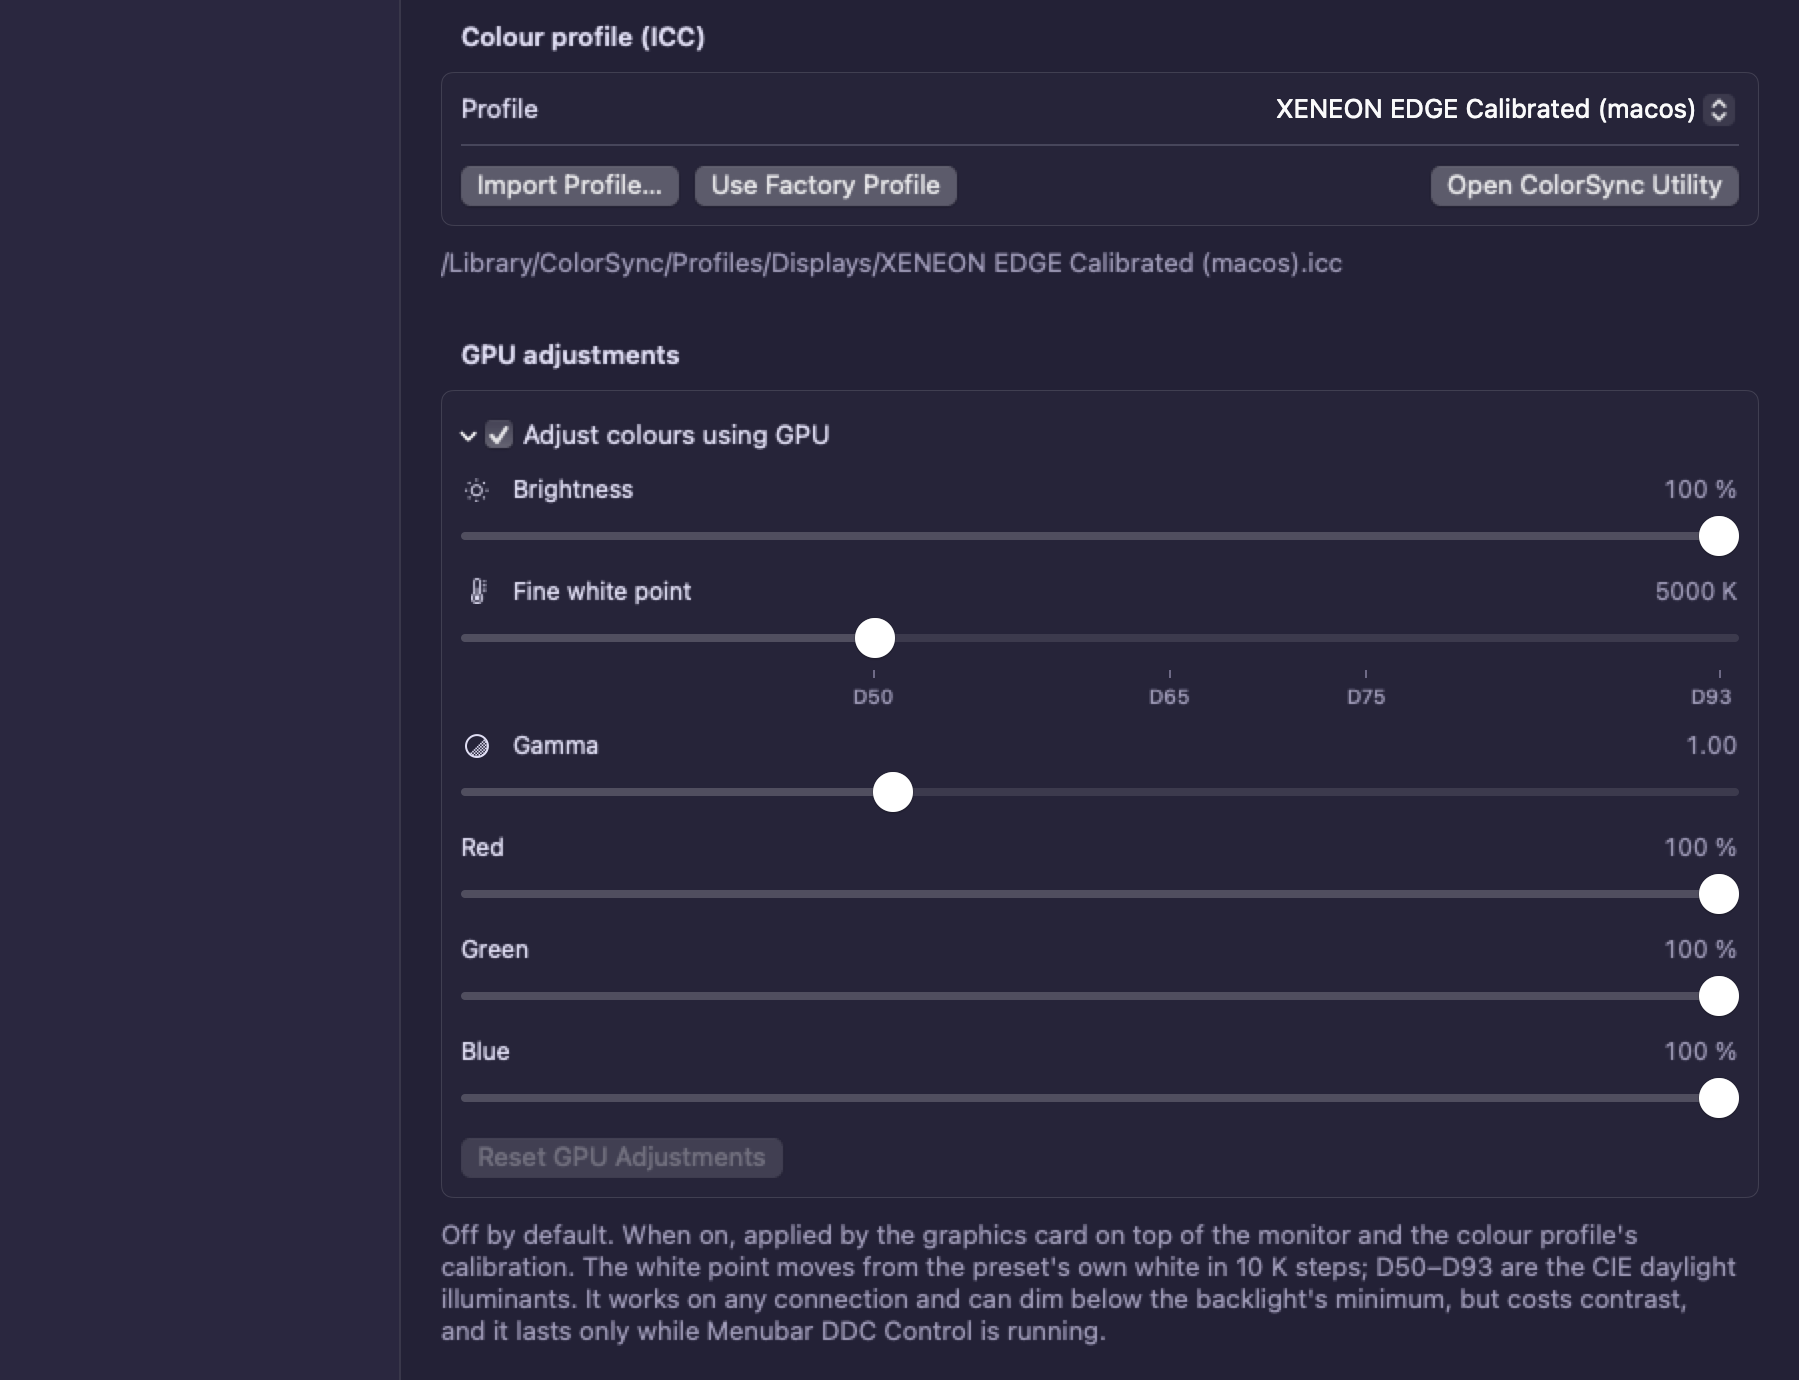
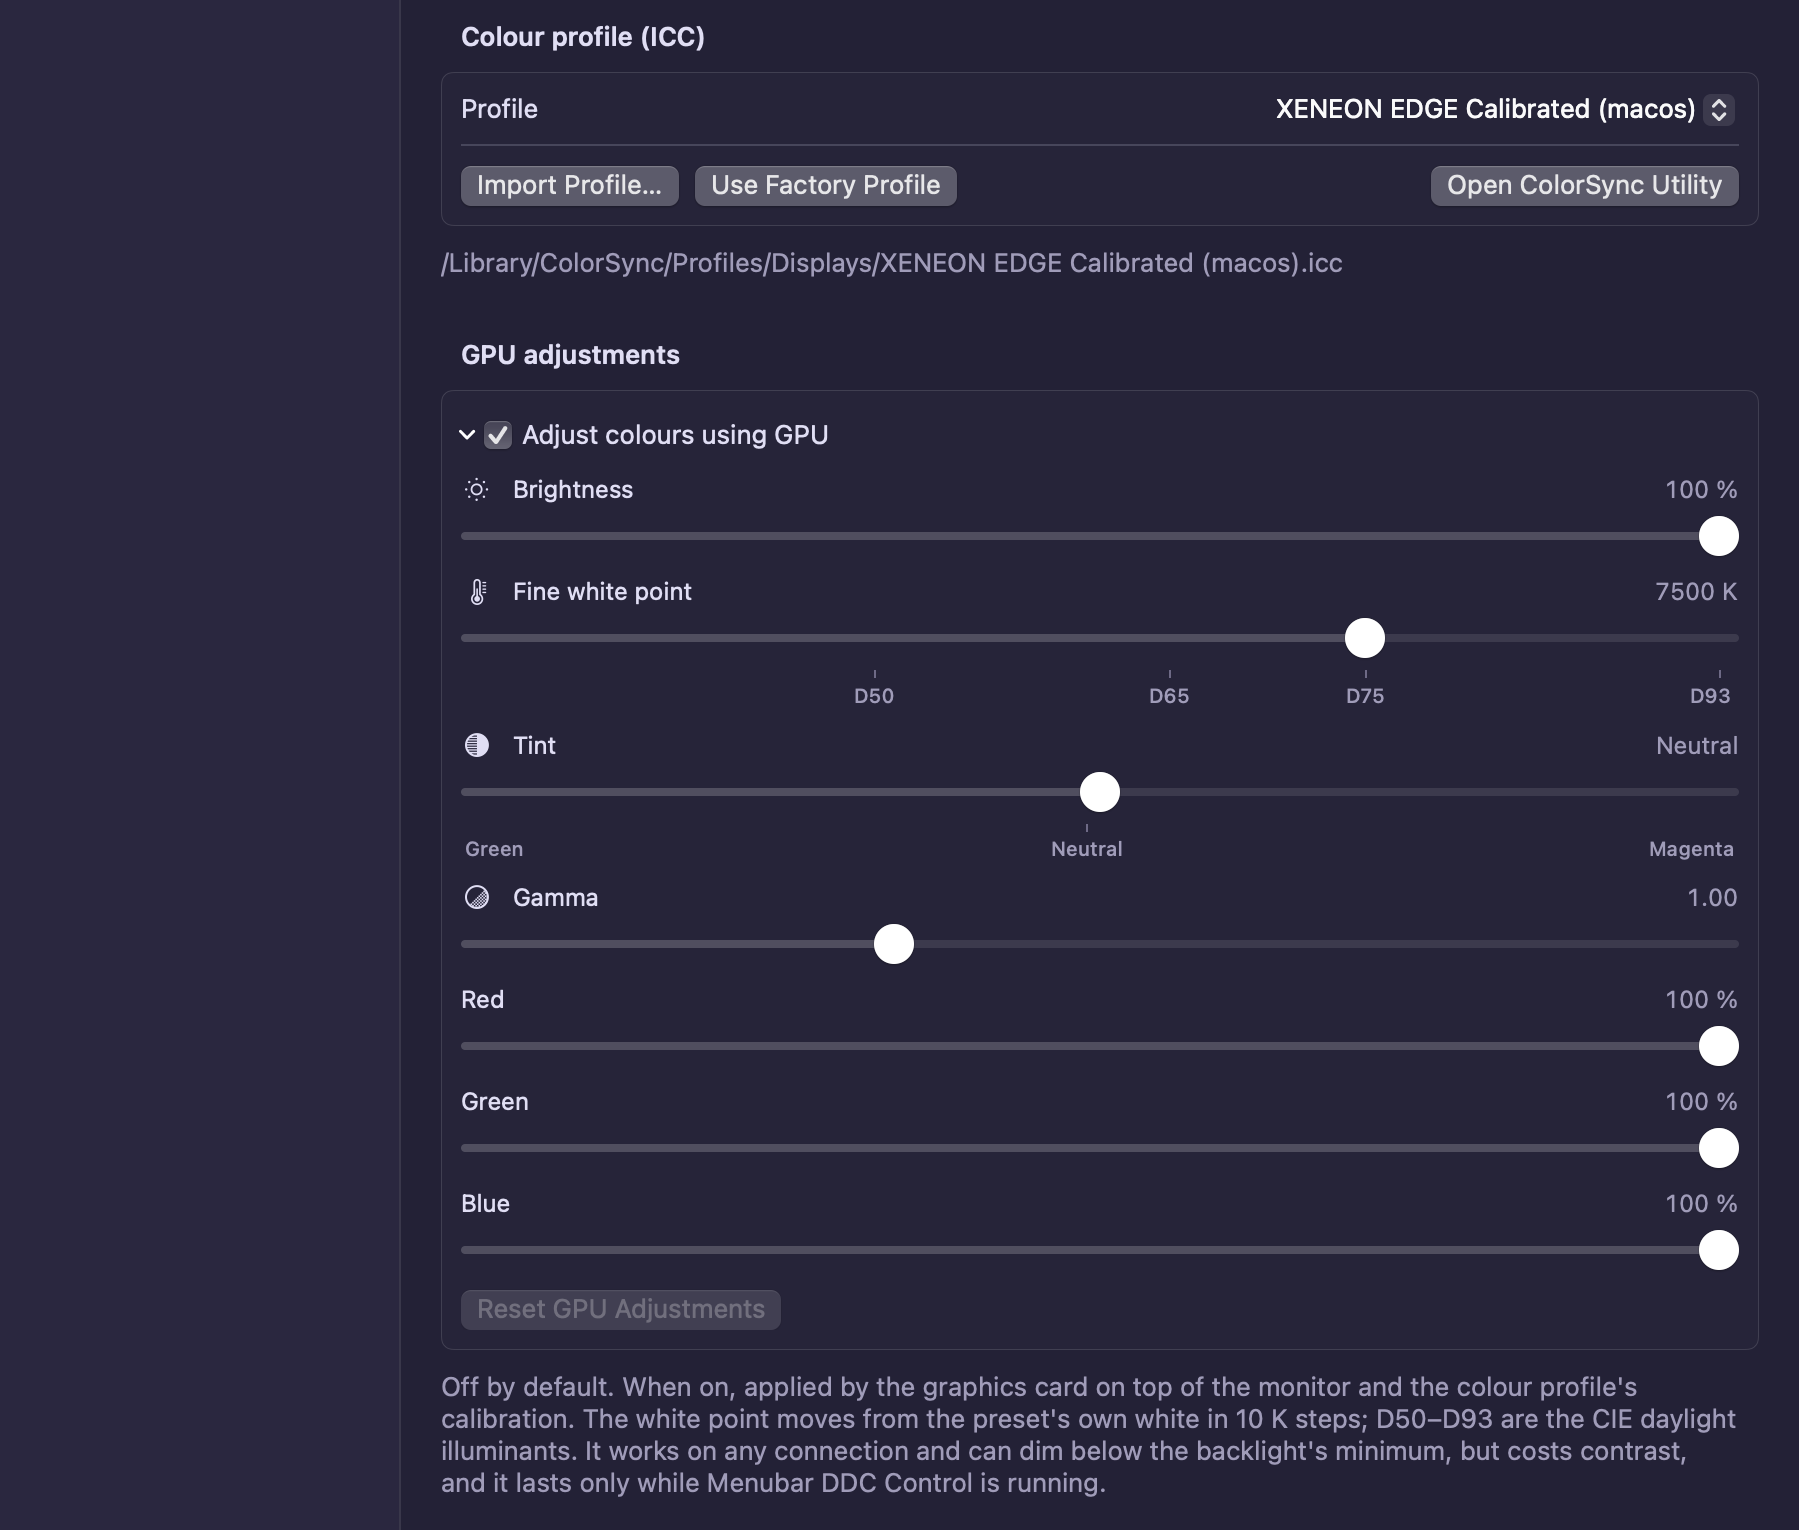
Add a green-magenta tint that drives the RGB balance
Tint in Adobe units (-3000 x Duv) moves the fine white point's chromaticity
along the Planckian locus normal in CIE 1960 uv (Krystek fit) and rescales
red/green/blue by the change in gains, keeping manual balance. Debug builds
get their own bundle ID so screenshot runs never touch a real install. The
cask uses the non-deprecated macOS requirement syntax.

Claude-Session: https://claude.ai/code/session_01JJf6vUpAV2kRPqf4XAeaxH

Changed region(s): [[0.2489, 0.0, 0.9644, 0.9971], [0.7156, 0.0623, 0.9644, 0.1558], [0.7467, 0.4986, 0.7778, 0.5297]]

diff --git a/Sources/DDCKit/WhitePoint.swift b/Sources/DDCKit/WhitePoint.swift
@@ -30,13 +30,66 @@ public enum WhitePoint {
 
     /// Linear-light sRGB of the white at `kelvin`, luminance 1.
     static func linearRGB(kelvin: Double) -> (Double, Double, Double) {
-        let (x, y) = chromaticity(kelvin: kelvin)
+        linearRGB(chromaticity(kelvin: kelvin))
+    }
+
+    /// Linear-light sRGB of chromaticity `xy` at luminance 1.
+    static func linearRGB(_ xy: (x: Double, y: Double)) -> (Double, Double, Double) {
+        let (x, y) = xy
         let X = x / y, Y = 1.0, Z = (1 - x - y) / y
         return (
             3.2406 * X - 1.5372 * Y - 0.4986 * Z,
             -0.9689 * X + 1.8758 * Y + 0.0415 * Z,
             0.0557 * X - 0.2040 * Y + 1.0570 * Z
         )
+    }
+
+    // MARK: Green–magenta (tint)
+
+    /// Adobe's Tint scale (Lightroom, Camera Raw, DNG SDK): Tint = −3000 × Duv, so positive
+    /// Tint is magenta (below the Planckian locus) and negative is green (above it).
+    public static let tintScale = -3000.0
+    public static let tintRange = -50.0...50.0
+    /// ANSI C78.377's ±0.006 Duv tolerance for lamps, in Tint units (±18).
+    public static let ansiTintTolerance = 0.006 * 3000
+
+    /// The Planckian locus in CIE 1960 uv (Krystek 1985, 1000–15000 K).
+    static func planckianUV(kelvin t: Double) -> (u: Double, v: Double) {
+        let u = (0.860117757 + 1.54118254e-4 * t + 1.28641212e-7 * t * t) / (1 + 8.42420235e-4 * t + 7.08145163e-7 * t * t)
+        let v = (0.317398726 + 4.22806245e-5 * t + 4.20481691e-8 * t * t) / (1 - 2.89741816e-5 * t + 1.61456053e-7 * t * t)
+        return (u, v)
+    }
+
+    /// Unit normal to the Planckian locus at `kelvin`, pointing above it (towards green, +Duv).
+    static func locusNormal(kelvin t: Double) -> (u: Double, v: Double) {
+        let a = planckianUV(kelvin: t - 1), b = planckianUV(kelvin: t + 1)
+        let (du, dv) = (b.u - a.u, b.v - a.v)            // tangent, towards higher CCT
+        let length = (du * du + dv * dv).squareRoot()
+        let n = (u: -dv / length, v: du / length)      // tangent rotated 90°
+        return n.v > 0 ? n : (-n.u, -n.v)               // "above" the locus has larger v
+    }
+
+    /// The chromaticity of `kelvin` (daylight locus from 4000 K, as `chromaticity`) moved
+    /// `duv` across the locus in CIE 1960 uv.
+    public static func chromaticity(kelvin: Double, duv: Double) -> (x: Double, y: Double) {
+        let (x, y) = chromaticity(kelvin: kelvin)
+        guard duv != 0 else { return (x, y) }
+        let d = -2 * x + 12 * y + 3
+        let n = locusNormal(kelvin: min(max(kelvin, 1000), 15000))
+        let u = 4 * x / d + duv * n.u, v = 6 * y / d + duv * n.v
+        let e = 2 * u - 8 * v + 4
+        return (3 * u / e, 2 * v / e)
+    }
+
+    /// Gamma-encoded channel multipliers that shift white by `tint` (Adobe units) at `kelvin`,
+    /// relative to no tint. The strongest channel stays at 1.
+    public static func tintGains(tint: Double, kelvin: Double, gamma: Double = 2.2) -> (red: Double, green: Double, blue: Double) {
+        let t = linearRGB(chromaticity(kelvin: kelvin, duv: tint / tintScale))
+        let r = linearRGB(chromaticity(kelvin: kelvin))
+        var m = (t.0 / r.0, t.1 / r.1, t.2 / r.2)
+        let peak = max(m.0, m.1, m.2)
+        m = (m.0 / peak, m.1 / peak, m.2 / peak)
+        return (pow(max(m.0, 0), 1 / gamma), pow(max(m.1, 0), 1 / gamma), pow(max(m.2, 0), 1 / gamma))
     }
 
     /// Multipliers for gamma-encoded values that move white from `reference` to `target`.

diff --git a/Sources/MenubarDDCControl/Controls.swift b/Sources/MenubarDDCControl/Controls.swift
@@ -108,6 +108,50 @@ struct MarkerRow: View {
     }
 }
 
+/// Green ↔ magenta, in Adobe Tint units (−3000 × Duv): moves white across the Planckian locus,
+/// at right angles to the white point. Setting it rescales the RGB balance sliders.
+struct TintSlider: View {
+    @Bindable var model: DisplayModel
+
+    var body: some View {
+        ValueSlider(title: "Tint", systemImage: "circle.lefthalf.striped.horizontal",
+                    value: Binding(get: { model.software.tint }, set: { model.software = model.software.settingTint($0) }),
+                    range: WhitePoint.tintRange, step: 1, format: Self.describe) {
+            TintScale { model.software = model.software.settingTint(0) }
+        }
+        .help("Green–magenta tint, as in Lightroom: \(Int(WhitePoint.ansiTintTolerance)) is the ANSI tolerance for lamps (±0.006 Duv)")
+    }
+
+    static func describe(_ tint: Double) -> String {
+        let t = Int(tint.rounded())
+        return t == 0 ? "Neutral" : t < 0 ? "Green \(-t)" : "Magenta \(t)"
+    }
+}
+
+/// "Green", a tappable "Neutral" mark at the centre, and "Magenta", under the tint slider's track.
+private struct TintScale: View {
+    let reset: () -> Void
+
+    var body: some View {
+        // One baseline for all three labels; the centre tick sits above "Neutral" in an overlay.
+        HStack(alignment: .firstTextBaseline) {
+            Text("Green")
+            Spacer()
+            Button("Neutral", action: reset)
+                .buttonStyle(.plain)
+                .overlay(alignment: .top) {
+                    Rectangle().fill(Theme.muted).frame(width: 1, height: 4).offset(y: -6)
+                }
+            Spacer()
+            Text("Magenta")
+        }
+        .padding(.top, 6)
+        .font(.caption2)
+        .foregroundStyle(Theme.secondaryText)
+        .padding(.horizontal, 2)
+    }
+}
+
 struct GammaSlider: View {
     @Bindable var model: DisplayModel
 
@@ -193,6 +237,7 @@ struct SoftwareSliders: View {
             ValueSlider(title: "Brightness", systemImage: "sun.min", value: $model.software.brightness,
                         range: SoftwareAdjustment.brightnessRange, step: 0.01, format: SoftwareBalanceSliders.percent)
             WhitePointSlider(model: model)
+            TintSlider(model: model)
             GammaSlider(model: model)
             SoftwareBalanceSliders(model: model)
             Button("Reset GPU Adjustments") { model.resetGPUValues() }

diff --git a/Sources/DDCKit/SoftwareColor.swift b/Sources/DDCKit/SoftwareColor.swift
@@ -18,6 +18,10 @@ public struct SoftwareAdjustment: Codable, Equatable, Sendable {
     /// already produces); equal values leave the white point alone.
     public var whitePoint: Double = 6500
     public var referenceWhitePoint: Double = 6500
+    /// Green–magenta tint in Adobe units (negative green, positive magenta). It is not applied
+    /// separately: moving it rescales `red`, `green` and `blue` (see `settingTint`), so this
+    /// records the slider's position.
+    public var tint: Double = 0
 
     public init() {}
 
@@ -32,6 +36,7 @@ public struct SoftwareAdjustment: Codable, Equatable, Sendable {
         gamma = try c.decodeIfPresent(Double.self, forKey: .gamma) ?? 1
         whitePoint = try c.decodeIfPresent(Double.self, forKey: .whitePoint) ?? 6500
         referenceWhitePoint = try c.decodeIfPresent(Double.self, forKey: .referenceWhitePoint) ?? 6500
+        tint = try c.decodeIfPresent(Double.self, forKey: .tint) ?? 0
     }
 
     /// Per-channel gain combining the RGB balance with the white-point shift.
@@ -47,7 +52,23 @@ public struct SoftwareAdjustment: Codable, Equatable, Sendable {
     }
 
     public var valuesAreDefault: Bool {
-        brightness == 1 && red == 1 && green == 1 && blue == 1 && gamma == 1 && abs(whitePoint - referenceWhitePoint) < 1
+        brightness == 1 && red == 1 && green == 1 && blue == 1 && gamma == 1 && tint == 0
+            && abs(whitePoint - referenceWhitePoint) < 1
+    }
+
+    /// This adjustment with the tint slider at `newTint`: red, green and blue are multiplied by
+    /// the change in tint gains, which keeps any balance set by hand, then scaled back so no
+    /// channel exceeds 1.
+    public func settingTint(_ newTint: Double) -> SoftwareAdjustment {
+        var next = self
+        next.tint = min(max(newTint, WhitePoint.tintRange.lowerBound), WhitePoint.tintRange.upperBound)
+        let old = WhitePoint.tintGains(tint: tint, kelvin: whitePoint)
+        let new = WhitePoint.tintGains(tint: next.tint, kelvin: whitePoint)
+        var rgb = (red * new.red / old.red, green * new.green / old.green, blue * new.blue / old.blue)
+        let peak = max(rgb.0, rgb.1, rgb.2)
+        if peak > 1 { rgb = (rgb.0 / peak, rgb.1 / peak, rgb.2 / peak) }
+        (next.red, next.green, next.blue) = rgb
+        return next
     }
 
     public static let brightnessRange = 0.1...1.0

diff --git a/Tests/DDCKitTests/DDCKitTests.swift b/Tests/DDCKitTests/DDCKitTests.swift
@@ -282,3 +282,44 @@ let edgeCapabilities = "(prot(monitor)type(LCD)model(RTK)cmds(01 02 03 07 0C E3 
         #expect(!release.isUpdate(over: AppVersion("0.1.0")!))
     }
 }
+
+@Suite struct Tint {
+    @Test func noTintIsNeutral() {
+        let g = WhitePoint.tintGains(tint: 0, kelvin: 6504)
+        #expect(abs(g.red - 1) < 1e-9 && abs(g.green - 1) < 1e-9 && abs(g.blue - 1) < 1e-9)
+    }
+
+    @Test func magentaCutsGreenAndGreenCutsRedAndBlue() {
+        let magenta = WhitePoint.tintGains(tint: 30, kelvin: 6504)
+        #expect(magenta.green < 0.97 && magenta.green < magenta.red && magenta.green < magenta.blue)
+        let green = WhitePoint.tintGains(tint: -30, kelvin: 6504)
+        #expect(green.green == 1 && green.red < 0.99 && green.blue < 0.99)
+    }
+
+    @Test func shiftIsAcrossTheLocusInUV() {
+        // Moving by Duv 0.01 must move the uv point by 0.01, perpendicular to the locus.
+        func uv(_ p: (x: Double, y: Double)) -> (Double, Double) {
+            let d = -2 * p.x + 12 * p.y + 3
+            return (4 * p.x / d, 6 * p.y / d)
+        }
+        let a = uv(WhitePoint.chromaticity(kelvin: 5000, duv: 0)), b = uv(WhitePoint.chromaticity(kelvin: 5000, duv: 0.01))
+        let distance = ((b.0 - a.0) * (b.0 - a.0) + (b.1 - a.1) * (b.1 - a.1)).squareRoot()
+        #expect(abs(distance - 0.01) < 1e-6)
+        #expect(b.1 > a.1)   // +Duv is above the locus (greener)
+    }
+
+    @Test func tintDrivesRGBAndKeepsManualBalance() {
+        var a = SoftwareAdjustment()
+        a.enabled = true
+        a.red = 0.9                                    // a manual tweak
+        let magenta = a.settingTint(20)
+        #expect(magenta.tint == 20 && magenta.green < a.green)
+        #expect(max(magenta.red, magenta.green, magenta.blue) <= 1)
+        let back = magenta.settingTint(0)
+        #expect(abs(back.red - 0.9) < 1e-9 && abs(back.green - 1) < 1e-9 && abs(back.blue - 1) < 1e-9)
+    }
+
+    @Test func clampsToRange() {
+        #expect(SoftwareAdjustment().settingTint(500).tint == 50)
+    }
+}

diff --git a/Sources/MenubarDDCControl/MenubarDDCControlApp.swift b/Sources/MenubarDDCControl/MenubarDDCControlApp.swift
@@ -40,6 +40,7 @@ final class AppDelegate: NSObject, NSApplicationDelegate {
         //   --debug-appearance light|dark   force Rosé Pine Dawn or Moon
         //   --debug-only <name>      only show displays whose name contains <name>
         //   --debug-gpu-on           tick "Adjust colours using GPU" (values stay at their defaults)
+        //   --debug-tint <n>         set the GPU tint (with --debug-gpu-on: this changes the picture)
         //   --debug-tab <n>          open Settings on tab n (0 Displays, 1 Snapshots, 2 General)
         //   --debug-height <pt>      height to enlarge Settings to before snapshotting (default 1900)
         //   --debug-snapshot <dir>   (with --debug-show-ui, first runs Read All DDC Values) writes each window to <dir>/<n>.png, then again as
@@ -70,6 +71,10 @@ final class AppDelegate: NSObject, NSApplicationDelegate {
             }
             guard let directory else { return }
             if arguments.contains("--debug-gpu-on") { app.selected?.gpuEnabled = true }
+            if let index = arguments.firstIndex(of: "--debug-tint"), index + 1 < arguments.count,
+               let tint = Double(arguments[index + 1]), let model = app.selected {
+                model.software = model.software.settingTint(tint)
+            }
             if arguments.contains("--debug-show-ui") {
                 app.selected?.readAllValues()
                 try? await Task.sleep(for: .seconds(8))

diff --git a/Sources/MenubarDDCControl/MenuContent.swift b/Sources/MenubarDDCControl/MenuContent.swift
@@ -102,6 +102,7 @@ struct DisplayQuickControls: View {
                 ControlSourceHeader(source: .gpu)
                 GPUAdjustments(model: model) {
                     WhitePointSlider(model: model)
+                    TintSlider(model: model)
                     GammaSlider(model: model)
                     SoftwareBalanceSliders(model: model)
                 }

diff --git a/Casks/menubar-ddc-control.rb b/Casks/menubar-ddc-control.rb
@@ -14,7 +14,7 @@ cask "menubar-ddc-control" do
   end
 
   depends_on arch: :arm64
-  depends_on macos: ">= :sonoma"
+  depends_on macos: :sonoma
 
   app "Menubar DDC Control.app"
   binary "#{appdir}/Menubar DDC Control.app/Contents/Resources/ddc-control"

diff --git a/CLAUDE.md b/CLAUDE.md
@@ -40,19 +40,17 @@ links without DDC/CI, and saved snapshots.
   Form sections are `ThemedSection`, forms get `.themedForm()`.
 - Icons: `Resources/AppIcon.icns` is built from the owner's artwork (masked to Apple's 824/1024 grid);
   `MenuBarIcon.swift` draws the menu bar template glyph in code.
-- README screenshots: `--debug-appearance dark|light` picks Moon or Dawn; `--debug-open-menu`/`--debug-show-ui` with `--debug-only XENEON` (hides the
-  owner's other displays), `--debug-gpu-on`, `--debug-tab <n>`, `--debug-height <pt>`, then crop into
-  `docs/images/` (`sips --cropOffset 0 0` centres instead of cropping from the top; use 1 1).
-  Snapshots always render at 2x; crop offsets for a 900x2600 pt settings capture: monitor 1+1340,
-  ICC/GPU 1530+1380, Restore/Debug 2915+1940.
-  Afterwards `defaults delete com.ip2k.MenubarDDCControl`: debug runs write to the real settings.
-- `swift run ddc-control list|caps|get|set|profiles|profile`: talks to the real display.
-- `"build/Menubar DDC Control.app/Contents/MacOS/MenubarDDCControl" --debug-open-menu --debug-snapshot <dir>`
-  opens the **real** menu bar popover (by sending its own status button a mouse-down) and writes
-  every window to `<dir>/<n>.png`, then `<n>-expanded.png` with the GPU adjustments disclosure expanded.
-  `--debug-show-ui` instead shows the popover content in a panel and opens Settings (enlarged
-  to 900×1900 for the snapshot). This is how to look at the UI, because the terminal has neither
-  Accessibility nor Screen Recording permission. Quit the installed app first (see the bus note below).
+- README screenshots: build with `./scripts/build-app.sh --debug` (bundle ID `…MenubarDDCControl.debug`,
+  at `build/debug/`) and only ever launch, kill (`pkill -f "build/debug/"`) and `defaults delete
+  com.ip2k.MenubarDDCControl.debug` that copy. **Never `pkill -x MenubarDDCControl` or delete
+  `com.ip2k.MenubarDDCControl`**: that is the owner's installed app and its settings (this wiped them
+  once, 2026-09-25; the old-domain migration brought snapshots and originals back). Flags:
+  `--debug-appearance dark|light`, `--debug-open-menu`/`--debug-show-ui`, `--debug-only XENEON` (hides
+  the owner's other displays), `--debug-gpu-on`, `--debug-tint <n>` (changes the picture while it runs),
+  `--debug-tab <n>`, `--debug-height <pt>`, `--debug-snapshot <dir>`. Crop into `docs/images/`
+  (`sips --cropOffset 0 0` centres instead of cropping from the top; use 1 1). Snapshots always
+  render at 2x; crop offsets for a 900x2600 pt settings capture: monitor 1+1340, ICC/GPU 1530+1380,
+  Restore/Debug 2915+1940 (shift if sections grow).
 - Known-good Edge state: `~/Library/Application Support/Menubar DDC Control/xeneon-edge-known-good-2026-09-25.json`;
   `ddc-control state restore <that file>` puts it back (it falls back to 0x08 for the gains).
 

diff --git a/README.md b/README.md
@@ -30,11 +30,13 @@ settings, over DDC/CI, exactly as its buttons or vendor software would.
 
 **Optional GPU adjustments, off until you ask.** Tick **Adjust colours using GPU** for what the
 hardware can't do: a fine white point from 3000 to 9300 K in 10 K steps with D50/D65/D75/D93
-marks, gamma, red/green/blue balance, and dimming below the backlight's minimum. They're applied
+marks; a green ↔ magenta **Tint** that moves white across the blackbody curve (Lightroom's units,
+−3000 × Duv) and drives the red/green/blue sliders; gamma; red/green/blue balance; and dimming below
+the backlight's minimum. They're applied
 on top of your colour profile's calibration, and unticking the box switches them off at once.
 
 <p align="center">
-  <img src="docs/images/popover-gpu.png" width="340" alt="The popover with Adjust colours using GPU ticked, showing the fine white point with D50, D65, D75 and D93 marks, gamma and RGB balance">
+  <img src="docs/images/popover-gpu.png" width="340" alt="The popover with Adjust colours using GPU ticked, showing the fine white point with D50, D65, D75 and D93 marks, the green–magenta tint, gamma and RGB balance">
 </p>
 
 **A way back, always.**

diff --git a/CHANGELOG.md b/CHANGELOG.md
@@ -5,6 +5,17 @@ All notable changes to this project are documented here. The format follows
 
 ## [Unreleased]
 
+### Added
+
+- A green ↔ magenta **Tint** slider under "Adjust colours using GPU". It shifts white across the
+  blackbody curve, at right angles to the white point. Values are in Lightroom's units (Tint =
+  −3000 × Duv, so ±18 is the ANSI ±0.006 tolerance for lamps). Moving it adjusts the red, green and
+  blue sliders, keeping any balance you set by hand. Tap Neutral to reset it.
+
+### Fixed
+
+- The Homebrew cask no longer triggers a deprecation warning for its macOS requirement.
+
 ## [0.2.0] - 2026-09-25
 
 ### Added
